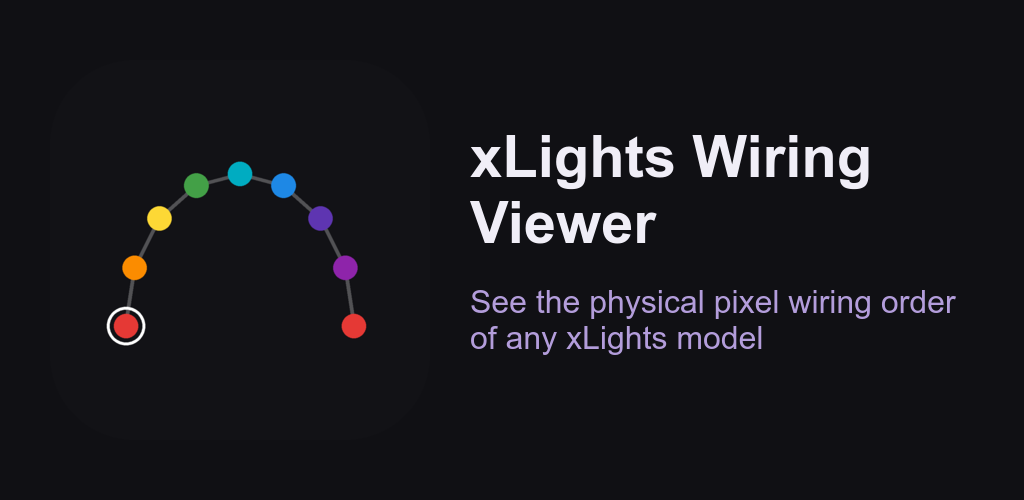
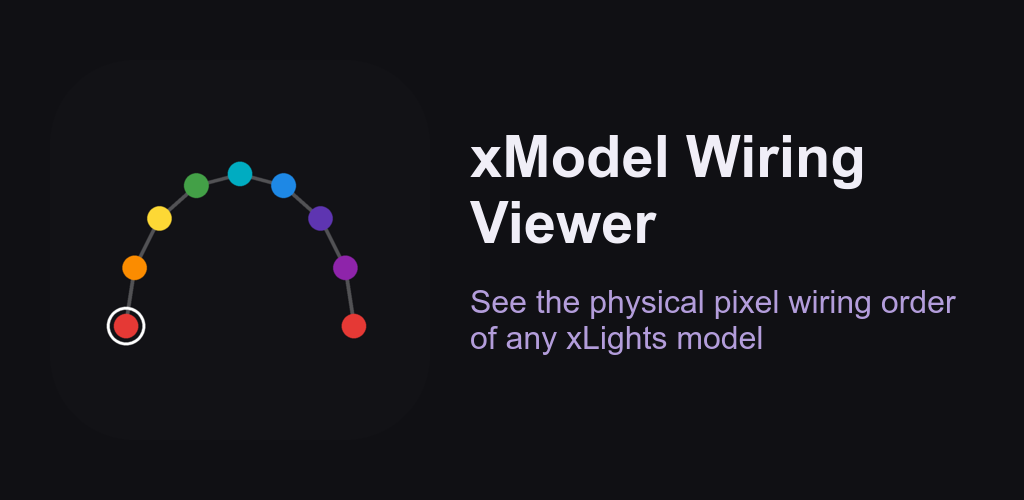
Rename app to xModel Wiring Viewer
Android package ID: com.sandbdesigns.xlights_wiring_viewer ->
com.sandbdesigns.xmodel_wiring_viewer (Kotlin package dir moved,
namespace/applicationId updated). iOS bundle ID:
com.sandbdesigns.xlightsWiringViewer -> com.sandbdesigns.xmodelWiringViewer.
Flutter project name (pubspec.yaml + test imports): xlights_wiring_viewer
-> xmodel_wiring_viewer. Display title everywhere it's user-visible
(Android launcher label, iOS display name, web title/manifest, in-app
AppBar title, README, privacy policy, store listing text/feature
graphic): "xLights Wiring Viewer" -> "xModel Wiring Viewer".

Regenerated the release signing keystore under the new name too, since
the old one was never used to sign anything published (see README's
new "Release signing" section for where it lives). Also fixed a stale
AGP/Kotlin version pin in the README and added a CHANGELOG.md plus
Play Store release notes for the 1.0.0 first release.

GitHub repo and local folder rename is a separate follow-up step.

Changed region(s): [[0.5, 0.27, 0.875, 0.39]]

diff --git a/web/privacy.html b/web/privacy.html
@@ -2,7 +2,7 @@
 <html lang="en">
 <head>
 <meta charset="utf-8">
-<title>Privacy Policy — xLights Wiring Viewer</title>
+<title>Privacy Policy — xModel Wiring Viewer</title>
 <meta name="viewport" content="width=device-width, initial-scale=1">
 <style>
   body { font-family: -apple-system, Segoe UI, Roboto, Helvetica, Arial, sans-serif; background:#121216; color:#e8e8ec; max-width: 720px; margin: 0 auto; padding: 32px 20px 64px; line-height: 1.6; }
@@ -14,10 +14,10 @@
 </style>
 </head>
 <body>
-<h1>Privacy Policy — xLights Wiring Viewer</h1>
-<p class="updated">Last updated: 2026-08-22</p>
+<h1>Privacy Policy — xModel Wiring Viewer</h1>
+<p class="updated">Last updated: 2026-08-23</p>
 
-<p>xLights Wiring Viewer is a utility app for browsing the xLights vendor
+<p>xModel Wiring Viewer is a utility app for browsing the xLights vendor
 model catalog and viewing the physical pixel wiring order of xLights
 models. This page explains what the app does and does not do with your
 data.</p>
@@ -64,6 +64,6 @@ same URL.</p>
 
 <h2>Contact</h2>
 <p>Questions about this app can be filed as an issue on the
-<a href="https://github.com/computergeek1507/xlights_wiring_viewer">GitHub repository</a>.</p>
+<a href="https://github.com/computergeek1507/xmodel_wiring_viewer">GitHub repository</a>.</p>
 </body>
 </html>

diff --git a/web/index.html b/web/index.html
@@ -18,18 +18,18 @@
 
   <meta charset="UTF-8">
   <meta content="IE=Edge" http-equiv="X-UA-Compatible">
-  <meta name="description" content="A new Flutter project.">
+  <meta name="description" content="Browse the xLights vendor model catalog or load a .xmodel file and view its physical wiring/node order.">
 
   <!-- iOS meta tags & icons -->
   <meta name="mobile-web-app-capable" content="yes">
   <meta name="apple-mobile-web-app-status-bar-style" content="black">
-  <meta name="apple-mobile-web-app-title" content="xlights_wiring_viewer">
+  <meta name="apple-mobile-web-app-title" content="xModel Wiring Viewer">
   <link rel="apple-touch-icon" href="icons/Icon-192.png">
 
   <!-- Favicon -->
   <link rel="icon" type="image/png" href="favicon.png"/>
 
-  <title>xlights_wiring_viewer</title>
+  <title>xModel Wiring Viewer</title>
   <link rel="manifest" href="manifest.json">
 </head>
 <body>

diff --git a/test/geometry/geometry_test.dart b/test/geometry/geometry_test.dart
@@ -1,8 +1,8 @@
 import 'dart:math' as math;
 
 import 'package:flutter_test/flutter_test.dart';
-import 'package:xlights_wiring_viewer/models/wired_model.dart';
-import 'package:xlights_wiring_viewer/services/xmodel_importer.dart';
+import 'package:xmodel_wiring_viewer/models/wired_model.dart';
+import 'package:xmodel_wiring_viewer/services/xmodel_importer.dart';
 
 void main() {
   group('Custom Model', () {

diff --git a/lib/main.dart b/lib/main.dart
@@ -12,7 +12,7 @@ class WiringViewerApp extends StatelessWidget {
   @override
   Widget build(BuildContext context) {
     return MaterialApp(
-      title: 'xLights Wiring Viewer',
+      title: 'xModel Wiring Viewer',
       debugShowCheckedModeBanner: false,
       theme: ThemeData.dark(useMaterial3: true).copyWith(
         scaffoldBackgroundColor: const Color(0xFF18181D),

diff --git a/lib/ui/home_page.dart b/lib/ui/home_page.dart
@@ -81,7 +81,7 @@ class HomePage extends StatelessWidget {
   @override
   Widget build(BuildContext context) {
     return Scaffold(
-      appBar: AppBar(title: const Text('xLights Wiring Viewer')),
+      appBar: AppBar(title: const Text('xModel Wiring Viewer')),
       body: Center(
         child: ConstrainedBox(
           constraints: const BoxConstraints(maxWidth: 420),

diff --git a/test/services/rgbeffects_importer_test.dart b/test/services/rgbeffects_importer_test.dart
@@ -1,5 +1,5 @@
 import 'package:flutter_test/flutter_test.dart';
-import 'package:xlights_wiring_viewer/services/rgbeffects_importer.dart';
+import 'package:xmodel_wiring_viewer/services/rgbeffects_importer.dart';
 
 // Trimmed but structurally real xlights_rgbeffects.xml: <xrgb> wrapping
 // <models type="rgb_effects"> full of <model> elements alongside many other

diff --git a/test/models/vendor_model_test.dart b/test/models/vendor_model_test.dart
@@ -1,6 +1,6 @@
 import 'package:flutter_test/flutter_test.dart';
 import 'package:xml/xml.dart';
-import 'package:xlights_wiring_viewer/models/vendor_model.dart';
+import 'package:xmodel_wiring_viewer/models/vendor_model.dart';
 
 void main() {
   test('parses multiple <wiring> options with their labels', () {

diff --git a/test/models/vendor_test.dart b/test/models/vendor_test.dart
@@ -1,5 +1,5 @@
 import 'package:flutter_test/flutter_test.dart';
-import 'package:xlights_wiring_viewer/models/vendor.dart';
+import 'package:xmodel_wiring_viewer/models/vendor.dart';
 
 void main() {
   test('isDmxVendor matches DMX vendor names case-insensitively', () {

diff --git a/test/widget_test.dart b/test/widget_test.dart
@@ -1,6 +1,6 @@
 import 'package:flutter_test/flutter_test.dart';
 
-import 'package:xlights_wiring_viewer/main.dart';
+import 'package:xmodel_wiring_viewer/main.dart';
 
 void main() {
   testWidgets('Home page shows the three entry points', (WidgetTester tester) async {

diff --git a/android/app/src/main/kotlin/com/sandbdesigns/xmodel_wiring_viewer/MainActivity.kt b/android/app/src/main/kotlin/com/sandbdesigns/xmodel_wiring_viewer/MainActivity.kt
@@ -1,4 +1,4 @@
-package com.sandbdesigns.xlights_wiring_viewer
+package com.sandbdesigns.xmodel_wiring_viewer
 
 import io.flutter.embedding.android.FlutterActivity
 

diff --git a/xmodel-proxy.php b/xmodel-proxy.php
@@ -1,6 +1,6 @@
 <?php
 /**
- * xLights Wiring Viewer — vendor-catalog / .xmodel CORS proxy.
+ * xModel Wiring Viewer — vendor-catalog / .xmodel CORS proxy.
  *
  * The web build of the app can't fetch a vendor's model inventory or a
  * .xmodel file straight from that vendor's site (browsers block that:

diff --git a/README.md b/README.md
@@ -1,4 +1,4 @@
-# xLights Wiring Viewer
+# xModel Wiring Viewer
 
 A Flutter app that shows the physical pixel wiring order of an xLights model —
 browse the [xLights vendor catalog](https://github.com/xLightsSequencer/xLights/blob/master/download/xlights_vendors.xml)
@@ -6,7 +6,7 @@ or load a `.xmodel` file directly, and see a pan/zoomable diagram tracing node
 1, 2, 3, ... through the model, colored by strand. Built for wiring props by
 hand in the garage.
 
-**Live web build:** https://computergeek1507.github.io/xlights_wiring_viewer/
+**Live web build:** https://computergeek1507.github.io/xmodel_wiring_viewer/
 (full vendor browsing works via a CORS proxy — see
 [Web and the CORS proxy](#web-and-the-cors-proxy)). Also mirrored at
 https://wiring.scottnation.com/, which hosts the proxy itself.
@@ -48,16 +48,32 @@ own `src-core/models/*.cpp` source, not guessed.
 
 ```
 flutter pub get
-flutter run                 # picks whatever device/emulator is connected
-flutter run -d chrome       # web
-flutter build apk --release # Android APK
+flutter run                      # picks whatever device/emulator is connected
+flutter run -d chrome            # web
+flutter build apk --release      # Android APK
+flutter build appbundle --release # Android App Bundle (Play Store)
 ```
 
 Android's Gradle/Kotlin versions are pinned in `android/settings.gradle.kts`
-(AGP 8.7.3 / Kotlin 2.1.0) — a freshly-scaffolded newer toolchain breaks
-`file_picker`'s build, so don't bump these without re-testing a release
-build. CI (`.github/workflows/android.yml`) pins the same Flutter version
-(3.44.0) for the same reason.
+(AGP 8.11.1 / Kotlin 2.3.20 — bumped from 8.7.3/2.1.0 because
+`url_launcher_android`'s `androidx.browser` dependency needs AGP 8.9.1+) —
+a freshly-scaffolded newer toolchain breaks `file_picker`'s build, so don't
+bump these further without re-testing a release build. CI
+(`.github/workflows/android.yml`) pins the same Flutter version (3.44.0)
+for the same reason.
+
+### Release signing
+
+`android/app/build.gradle.kts` signs release builds with
+`android/key.properties` (gitignored, never committed) when it's present,
+falling back to debug signing otherwise so CI and `flutter run --release`
+still work without it. The keystore itself lives outside the repo at
+`C:\Users\scoot\keystores\xmodel_wiring_viewer\upload-keystore.jks` — **this
+is the permanent signing identity for the app on Play Store once
+published; losing it means you can never publish an update to that listing
+again.** Back it up somewhere durable (password manager attachment, encrypted
+cloud storage) — it is not recoverable if lost, and it is not checked into
+version control anywhere.
 
 ## Web and the CORS proxy
 
